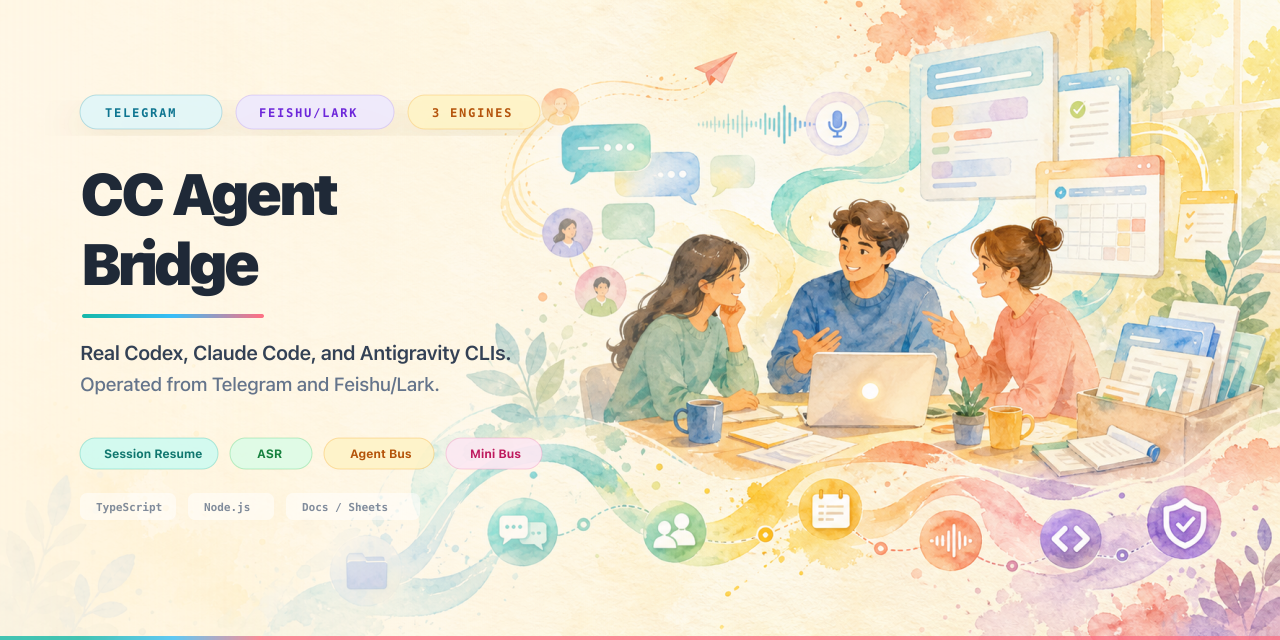
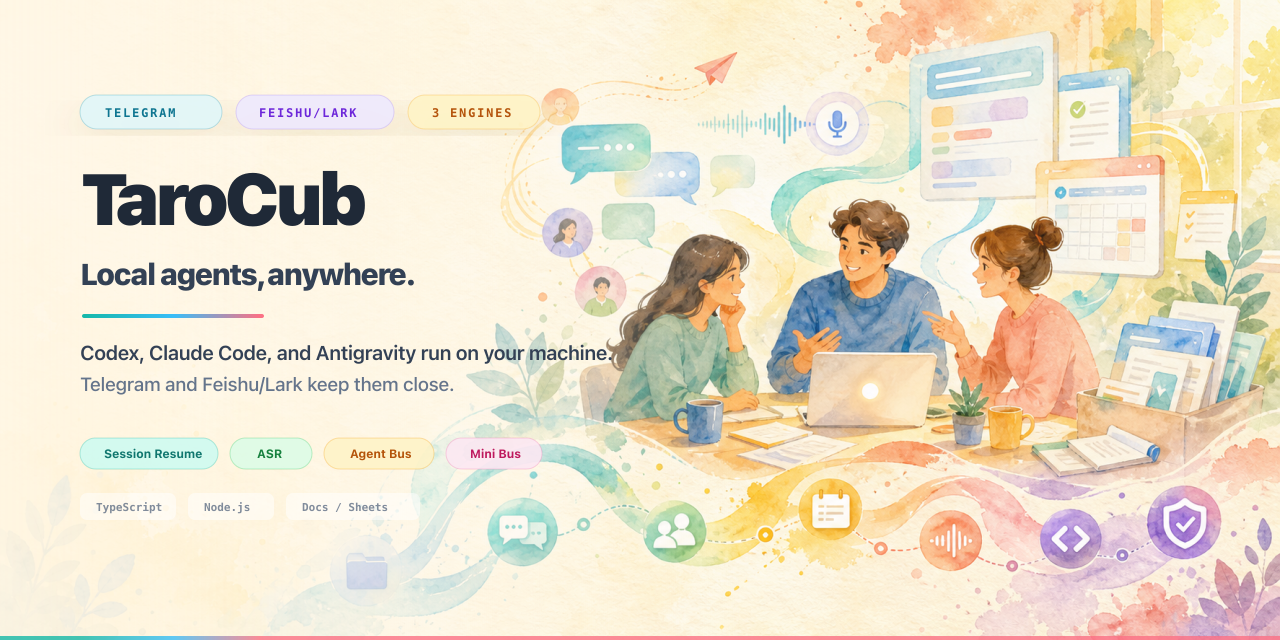
chore: reset brand to TaroCub

Changed region(s): [[0.0625, 0.25, 0.3125, 0.4688], [0.0625, 0.5312, 0.4688, 0.625]]

diff --git a/site/index.html b/site/index.html
@@ -3,7 +3,7 @@
   <head>
     <meta charset="utf-8" />
     <meta name="viewport" content="width=device-width, initial-scale=1" />
-    <title>TaroCub Bridge</title>
+    <title>TaroCub</title>
     <meta
       name="description"
       content="Run Codex, Claude Code, and Antigravity locally, then control them from Telegram and Feishu/Lark."
@@ -21,14 +21,14 @@
       <header class="hero">
         <div class="hero-copy">
           <div class="eyebrow">Codex + Claude Code + Antigravity</div>
-          <h1>TaroCub Bridge connects local AI agents to Telegram and Feishu/Lark.</h1>
+          <h1>TaroCub connects local AI agents to Telegram and Feishu/Lark.</h1>
           <p class="hero-text">
             Run real CLI agents on your own machine, then control durable sessions, files, tasks, cron,
             approvals, and multi-agent workflows from your phone or team chat.
           </p>
           <div class="hero-actions">
             <a class="primary-action" href="../README.md">Read The Docs</a>
-            <a class="secondary-action" href="https://github.com/cloveric/cc-telegram-bridge">View Repository</a>
+            <a class="secondary-action" href="https://github.com/cloveric/tarocub">View Repository</a>
           </div>
         </div>
         <div class="hero-panel">
@@ -140,7 +140,7 @@
             <h2>Ship it as a tool, not a demo.</h2>
           </div>
           <div class="footer-actions">
-            <a class="primary-action" href="https://github.com/cloveric/cc-telegram-bridge">Open GitHub</a>
+            <a class="primary-action" href="https://github.com/cloveric/tarocub">Open GitHub</a>
             <a class="secondary-action" href="../README.md">Implementation Guide</a>
           </div>
         </section>

diff --git a/src/lark/commands.ts b/src/lark/commands.ts
@@ -587,7 +587,7 @@ function renderLarkNewGroupUsage(locale: Locale): string {
 function renderLarkNewGroupWelcome(name: string, mode: "group" | "topic", locale: Locale): string {
   if (locale === "en") {
     return [
-      `**${name}** is connected to cc-telegram-bridge.`,
+      `**${name}** is connected to TaroCub.`,
       "",
       mode === "topic"
         ? "Use each topic as an isolated session, or send `/status` to inspect this conversation."
@@ -595,7 +595,7 @@ function renderLarkNewGroupWelcome(name: string, mode: "group" | "topic", locale
     ].join("\n");
   }
   return [
-    `**${name}** 这个${mode === "topic" ? "话题群" : "群"}已经接入 cc-telegram-bridge。`,
+    `**${name}** 这个${mode === "topic" ? "话题群" : "群"}已经接入 TaroCub。`,
     "",
     mode === "topic"
       ? "每个话题都可以作为独立 session 使用；发送 `/status` 可查看当前会话。"
@@ -701,7 +701,7 @@ export function isStopCommand(text: string): boolean {
 function renderLarkHelpMessage(locale: Locale = "zh"): string {
   if (locale === "en") {
     return [
-      "**cc-telegram-bridge for Feishu/Lark**",
+      "**TaroCub for Feishu/Lark**",
       "",
       "Common commands:",
       "- `/help`: show this help",
@@ -747,7 +747,7 @@ function renderLarkHelpMessage(locale: Locale = "zh"): string {
   }
 
   return [
-    "**cc-telegram-bridge for Feishu/Lark**",
+    "**TaroCub for Feishu/Lark**",
     "",
     "常用命令：",
     "- `/help`：显示这份帮助",

diff --git a/src/lark/agent-instructions.ts b/src/lark/agent-instructions.ts
@@ -1,6 +1,6 @@
 export function larkAgentInstructions(): string {
   return [
-    "You are replying through Feishu/Lark via cc-telegram-bridge.",
+    "You are replying through Feishu/Lark via TaroCub.",
     "Use the <lark_context> block for chat/message/thread identity; do not reveal app secrets or tokens.",
     "If the prompt contains <lark_comment_context>, answer as a Feishu Docs comment reply; use file_token/file_type/comment_id only as operational context, not as user-visible secrets.",
     "For ordinary Lark requests, answer directly in text. Do not emit progress, running, or placeholder cards; use cards only when the user needs an explicit button/choice workflow.",

diff --git a/src/lark/env-file.ts b/src/lark/env-file.ts
@@ -66,7 +66,7 @@ export async function writeLarkEnvFile(
   await mkdir(stateDir, { recursive: true, mode: 0o700 });
   const envPath = path.join(stateDir, LARK_ENV_FILE_NAME);
   const lines = [
-    "# Generated by cc-telegram-bridge lark wizard. Do not commit this file.",
+    "# Generated by TaroCub lark wizard. Do not commit this file.",
     `LARK_APP_ID=${quoteEnvValue(values.appId)}`,
     `LARK_APP_SECRET=${quoteEnvValue(values.appSecret)}`,
     ...(values.domain ? [`LARK_DOMAIN=${quoteEnvValue(values.domain)}`] : []),

diff --git a/src/lark/cli.ts b/src/lark/cli.ts
@@ -63,7 +63,7 @@ export async function ensureLarkCliBridgeBindingConfig(input: LarkCliBridgeBindi
   await mkdir(appDir, { recursive: true });
   const wrapper = [
     "#!/bin/sh",
-    "# Auto-generated by cc-telegram-bridge. Do not edit.",
+    "# Auto-generated by TaroCub. Do not edit.",
     "# Feeds lark-cli exec-provider secret requests through the bridge Lark state dir.",
     `CCTB_LARK_STATE_DIR=${shellQuote(stateDir)} exec ${shellQuote(nodePath)} ${shellQuote(entrypoint)} lark secrets get "$@"`,
     "",

diff --git a/tests/lark-service.test.ts b/tests/lark-service.test.ts
@@ -1564,7 +1564,7 @@ describe("lark service", () => {
       expect(bridge.handleAuthorizedMessage).not.toHaveBeenCalled();
       expect(channel.send).toHaveBeenCalledWith(
         "oc_new_chat",
-        { markdown: expect.stringContaining("这个群已经接入 cc-telegram-bridge") },
+        { markdown: expect.stringContaining("这个群已经接入 TaroCub") },
       );
       expect(channel.send).toHaveBeenCalledWith(
         "oc_chat",

diff --git a/src/codex/claude-permission-mcp-server.ts b/src/codex/claude-permission-mcp-server.ts
@@ -109,7 +109,7 @@ async function handleRequest(message: JsonRpcRequest): Promise<void> {
       tools: [
         {
           name: "approve",
-          description: "Ask the cc-telegram-bridge Telegram chat to approve or deny a Claude Code tool call.",
+          description: "Ask the TaroCub Telegram chat to approve or deny a Claude Code tool call.",
           inputSchema: {
             type: "object",
             properties: {},

diff --git a/tests/lark-wizard.test.ts b/tests/lark-wizard.test.ts
@@ -60,7 +60,7 @@ describe("runLarkWizard", () => {
       expect(qrUrls).toEqual(["https://open.feishu.cn/qr"]);
       expect(registerAppImpl).toHaveBeenCalledWith(expect.objectContaining({
         domain: "accounts.feishu.cn",
-        source: "cc-telegram-bridge",
+        source: "tarocub",
       }));
       expect(provisionApp).toHaveBeenCalledWith(expect.objectContaining({
         appId: "cli_personal",

diff --git a/src/lark/wizard.ts b/src/lark/wizard.ts
@@ -45,7 +45,7 @@ export async function runLarkWizard(env: LarkRuntimeEnv, logger: LarkWizardLogge
 
   const result: LarkWizardRegisterAppResult = await register({
     ...resolveLarkRegistrationDomains(env.LARK_DOMAIN),
-    source: "cc-telegram-bridge",
+    source: "tarocub",
     onQRCodeReady: (info) => {
       logger.log("");
       generateQRCode(info.url);

diff --git a/src/commands/cli.ts b/src/commands/cli.ts
@@ -1759,7 +1759,7 @@ async function runLarkSendCommand(
     appId: config.appId,
     appSecret: config.appSecret,
     transport: "websocket",
-    source: "cc-telegram-bridge-cli",
+    source: "tarocub-cli",
     ...(config.domain !== undefined ? { domain: config.domain } : {}),
   });
   await (deps.deliverResponse ?? deliverLarkResponse)({

diff --git a/src/codex/app-server-adapter.ts b/src/codex/app-server-adapter.ts
@@ -527,8 +527,8 @@ export class CodexAppServerAdapter implements CodexAdapter {
       "initialize",
       {
         clientInfo: {
-          name: "cc-telegram-bridge",
-          title: "cc-telegram-bridge",
+          name: "tarocub",
+          title: "TaroCub",
           version: "0.1.0",
         },
         capabilities: {

diff --git a/src/lark/service.ts b/src/lark/service.ts
@@ -91,7 +91,7 @@ export async function runLarkService(
       appId: config.appId,
       appSecret: config.appSecret,
       transport: "websocket",
-      source: "cc-telegram-bridge",
+      source: "tarocub",
       policy: {
         dmMode: "open",
         requireMention: false,
